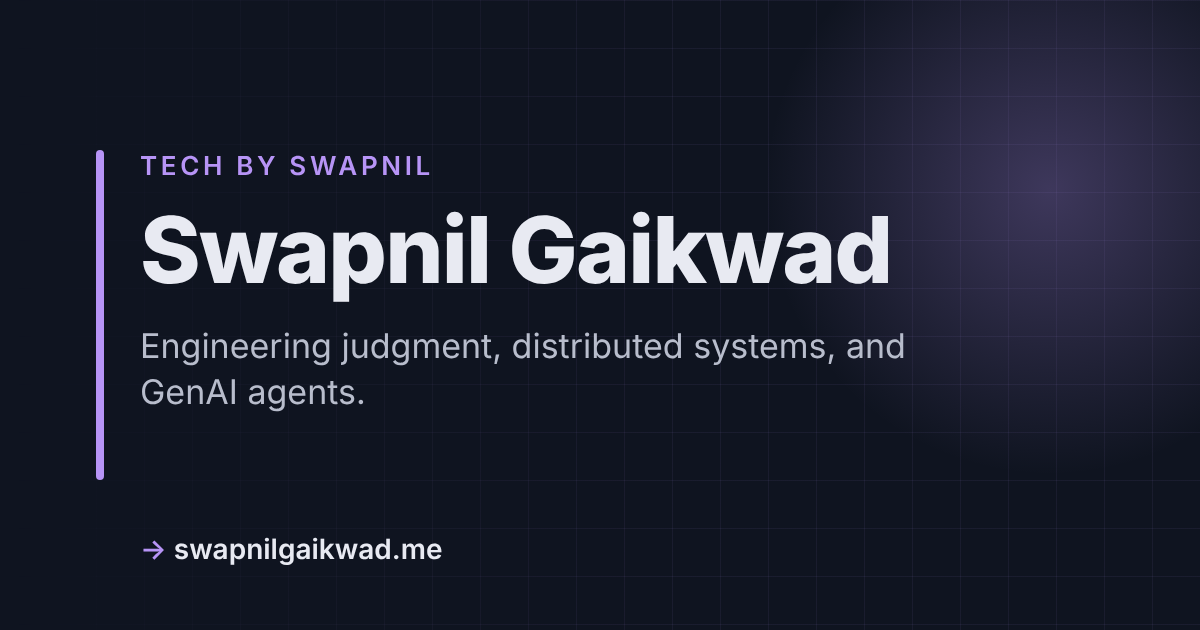
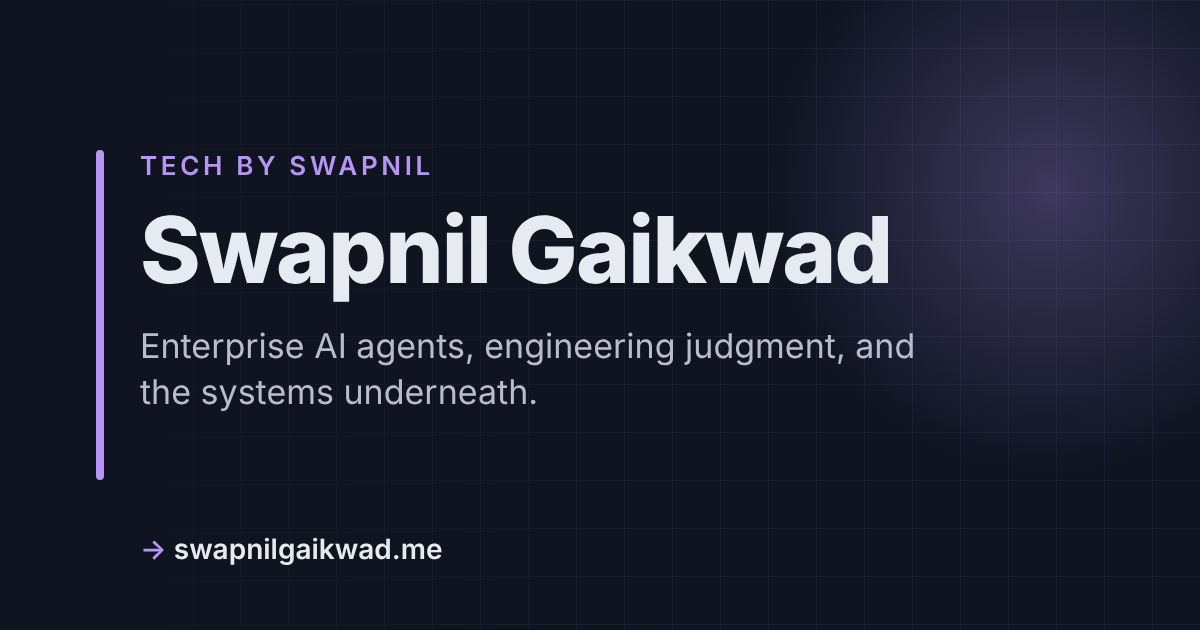
Reposition site and About page around enterprise AI
- Sidebar tagline: "Enterprise AI on systems built to scale"
- Home heading and intro lead with building GenAI agents for the enterprise
- About: rewritten bio (lead line, current GenAI agent work, NASA/research
  thread, approach); new "What I work on" cards under the opening line;
  GenAI initiative added to Amazon experience; "AI Applications" skills
  group; publications listed newest first
- Meta descriptions, site description, Person knowsAbout and the default
  share image updated to match

Claude-Session: https://claude.ai/code/session_01EQevW9R4LrNDpq11FkH3uR

Changed region(s): [[0.1233, 0.5127, 0.7708, 0.6635]]

diff --git a/src/pages/about.js b/src/pages/about.js
@@ -13,11 +13,12 @@ const experiences = [
     period: "2020 — Present",
     description: [
       "Technical leader driving architectural vision for Amazon Currency Converter for Sellers (ACCS), leading cross-functional initiatives that rearchitected and expanded the product across international markets",
+      "Leading a GenAI agent-based initiative for enterprise accounting onboarding, using narrow, bounded agents and designed-in human checkpoints to compress a process of up to six months toward three weeks",
       "Architected and delivered a generic monetization framework supporting end-to-end fee lifecycle, establishing technical standards that reduced launch times by 83% and KTLO costs by 64%",
       "Led system architecture redesign for ACCS payment product enabling rapid international expansion, reducing time to market by 80% through scalable, reusable design patterns",
       "Provide technical leadership and mentorship across 3 teams with 18 engineers and 3 managers, fostering engineering excellence and developing 7 engineers to next-level roles"
     ],
-    technologies: ["Java", "AWS", "Spring Boot", "DynamoDB", "PostgreSQL"]
+    technologies: ["Generative AI", "Java", "AWS", "Spring Boot", "DynamoDB", "PostgreSQL"]
   },
   {
     company: "NASA Ames Research Center",
@@ -56,6 +57,14 @@ const experiences = [
 
 const publications = [
   {
+    title: "Agentic AI for Autonomous Decision Systems",
+    venue: "CISCom 2026 (Second International Conference on Computational Intelligence and Soft Computing), Track 15, Paper ID 37",
+    date: null,
+    status: "In Press",
+    url: null,
+    description: "Co-authored with Rajkumar Kuppuswami (primary), Swapnil Gaikwad, and others. Camera-ready version in progress."
+  },
+  {
     title: "Data Structure for Efficient Line of Sight Queries",
     venue: "CIKM 2018",
     date: "October 2018",
@@ -68,18 +77,14 @@ const publications = [
     date: "May 2017",
     url: "/papers/2017-optimal-constrained-wireless-emergency-network-antenna-placement.pdf",
     description: "Communication is paramount during emergencies. This research proposes a framework for identifying optimal placement of wireless network antennas within a city, given multiple criteria constraints."
-  },
-  {
-    title: "Agentic AI for Autonomous Decision Systems",
-    venue: "CISCom 2026 (Second International Conference on Computational Intelligence and Soft Computing), Track 15, Paper ID 37",
-    date: null,
-    status: "In Press",
-    url: null,
-    description: "Co-authored with Rajkumar Kuppuswami (primary), Swapnil Gaikwad, and others. Camera-ready version in progress."
   }
 ]
 
 const skills = [
+  {
+    category: "AI Applications",
+    skills: ["GenAI Agents", "Agentic Workflows", "Human-in-the-Loop Design", "Agent Evaluation", "Prompt & Context Engineering"]
+  },
   {
     category: "Architecture & Leadership",
     skills: ["Distributed Systems", "System Design", "Technical Strategy", "Cross-Team Leadership", "Mentorship"]
@@ -98,6 +103,21 @@ const skills = [
   }
 ]
 
+const focusAreas = [
+  {
+    title: "Enterprise AI agents",
+    description: "GenAI agents for judgment-heavy business workflows, with human checkpoints designed in rather than bolted on."
+  },
+  {
+    title: "Payments & monetization platforms",
+    description: "Large-scale distributed systems for payments and fees, built to launch fast and stay reliable."
+  },
+  {
+    title: "Research & community",
+    description: "Published work on optimization and agentic AI, plus conference talks, committees, and hackathon judging."
+  }
+]
+
 const AboutPage = ({ data }) => {
   const writingPosts = data.allDevToArticle.nodes
   return (
@@ -106,29 +126,46 @@ const AboutPage = ({ data }) => {
       {/* Bio Section */}
       <section className={styles.section} aria-labelledby="bio-heading">
         <h2 id="bio-heading" className={styles.srOnly}>About</h2>
+        <p className={styles.lead}>
+          I'm Swapnil Gaikwad, a Senior Software Development Engineer at Amazon. I build AI
+          applications for the enterprise: GenAI agents that take on judgment-heavy business
+          workflows, running on the kind of large-scale payment and monetization systems I've
+          spent years designing and leading.
+        </p>
+
+        <h3 id="focus-heading" className={styles.focusHeading}>What I work on</h3>
+        <ul className={styles.focusGrid} aria-labelledby="focus-heading">
+          {focusAreas.map(area => (
+            <li key={area.title} className={styles.focusCard}>
+              <h4 className={styles.focusTitle}>{area.title}</h4>
+              <p className={styles.focusDescription}>{area.description}</p>
+            </li>
+          ))}
+        </ul>
+
         <div className={styles.bio}>
           <p>
-            Hi, I'm Swapnil Gaikwad, a Senior Software Development Engineer at Amazon where I architect 
-            and lead the development of large-scale distributed systems that power critical payment and 
-            monetization infrastructure. My work spans technical leadership across multiple teams, driving 
-            architectural decisions that impact millions of sellers globally while ensuring systems remain 
-            scalable, resilient, and performant.
+            I'm the technical lead for Amazon Currency Converter for Sellers (ACCS), a global payments
+            and monetization platform. My current focus is a GenAI agent-based initiative for enterprise
+            accounting onboarding, a process that can take up to six months. Instead of one large agent,
+            it uses narrow, bounded agents and deliberately placed human checkpoints, aiming to bring
+            that time down toward three weeks. The idea behind it applies well beyond accounting: map
+            where the judgment in a workflow actually lives, automate around it, and keep people where
+            a wrong call is expensive to undo.
           </p>
           <p>
-            I hold a Master's degree in Computer Science from San Jose State University, where I 
-            specialized in optimization algorithms and wireless network systems. My academic research 
-            led to publications in IEEE and CIKM conferences, focusing on large-scale optimization 
-            problems for emergency communication networks. This foundation in both theoretical computer 
-            science and practical systems engineering shapes my approach to solving complex technical 
-            challenges—from designing fault-tolerant architectures to optimizing system performance at scale.
+            The thread goes back further. At NASA Ames Research Center I built software for the
+            Tailored Arrival Manager, an autonomous, trajectory-based air traffic system developed with
+            Boeing and the FAA. My Master's research in Computer Science at San Jose State University,
+            on large-scale optimization for emergency wireless networks, led to papers at IEEE and ACM
+            CIKM, and I recently co-authored <em>Agentic AI for Autonomous Decision Systems</em> (CISCom 2026).
           </p>
           <p>
-            Throughout my career, I've focused on translating business needs into pragmatic technical 
-            solutions while mentoring engineers and fostering a culture of technical excellence. I'm 
-            passionate about building systems that not only solve today's problems but are architected 
-            to evolve with future needs. When I'm not designing distributed systems or reviewing 
-            architectural proposals, you'll find me sharing knowledge through writing, exploring emerging 
-            technologies, or enjoying the outdoors.
+            I believe the only way to build fast is to build right, so I care as much about the
+            architecture, evaluation, and review practices around an AI system as about the model inside
+            it. Beyond my day job, I write about engineering judgment and GenAI agents, speak and serve on
+            committees at technical conferences, judge hackathons, and mentor engineers. Away from the
+            keyboard, you'll usually find me outdoors.
           </p>
         </div>
       </section>
@@ -274,7 +311,7 @@ export const query = graphql`
 export const Head = () => (
   <Seo
     title="About Me"
-    description="Swapnil Gaikwad is a Senior Software Development Engineer at Amazon, leading large-scale distributed systems for payments and monetization."
+    description="Swapnil Gaikwad is a Senior Software Development Engineer at Amazon, building enterprise GenAI agents on large-scale payment and monetization systems."
     canonical="/about/"
   >
     <JsonLd data={personSchema()} />

diff --git a/src/pages/index.js b/src/pages/index.js
@@ -8,11 +8,12 @@ import * as styles from './index.module.css'
 
 const IndexPage = ({ data }) => {
   return (
-    <Layout pageTitle="Notes on distributed systems, architecture, and scale">
+    <Layout pageTitle="Notes on building AI for the enterprise">
       <p className={styles.intro}>
-        I'm Swapnil Gaikwad, a Senior Software Development Engineer at Amazon.
-        I write about engineering judgment, code reviews, distributed systems,
-        and GenAI agents. <Link to="/about">More about me →</Link>
+        I'm Swapnil Gaikwad, a Senior Software Development Engineer at Amazon,
+        building GenAI agents for enterprise workflows. I write about AI agents,
+        engineering judgment, code reviews, and the distributed systems
+        underneath it all. <Link to="/about">More about me →</Link>
       </p>
 
       <UpcomingActivities />
@@ -64,7 +65,7 @@ export const query = graphql`
 export const Head = () => (
   <Seo
     title="Home"
-    description="Tech by Swapnil: notes on engineering judgment, code reviews, distributed systems, and GenAI agents, written by Swapnil Gaikwad."
+    description="Tech by Swapnil: notes on building enterprise AI agents, engineering judgment, code reviews, and distributed systems, by Swapnil Gaikwad."
     canonical="/"
   >
     <JsonLd data={personSchema()} />

diff --git a/src/pages/about.module.css b/src/pages/about.module.css
@@ -36,10 +36,59 @@
   margin-bottom: 1.25rem;
 }
 
-.bio p:first-child {
+/* Opening line: larger, so the page leads with one clear sentence */
+.lead {
   font-size: 1.2rem;
   font-weight: 500;
+  line-height: 1.65;
   color: var(--text);
+  margin: 0 0 1.75rem;
+}
+
+.focusHeading {
+  margin: 0 0 0.85rem;
+  font-size: 0.8rem;
+  font-weight: 600;
+  letter-spacing: 0.08em;
+  text-transform: uppercase;
+  color: var(--accent);
+}
+
+/* Focus areas: three short cards that summarise the bio at a glance */
+.focusGrid {
+  list-style: none;
+  margin: 0;
+  padding: 0;
+  display: grid;
+  /* Three across when there is room, stacking on narrow screens */
+  grid-template-columns: repeat(auto-fit, minmax(11rem, 1fr));
+  gap: 1rem;
+  margin-bottom: 2.25rem;
+}
+
+.focusCard {
+  margin: 0;
+  padding: 1.25rem 1.25rem 1.35rem;
+  background: var(--bg-elevated);
+  border: 1px solid var(--border);
+  border-top: 3px solid var(--accent);
+  border-radius: 10px;
+  box-shadow: var(--shadow);
+}
+
+.focusTitle {
+  margin: 0 0 0.5rem;
+  font-size: 1.02rem;
+  font-weight: 600;
+  line-height: 1.3;
+  color: var(--text);
+}
+
+.focusDescription {
+  margin: 0;
+  font-size: 0.95rem;
+  line-height: 1.55;
+  color: var(--text-muted);
 }
 
 /* Experience section - timeline style */

diff --git a/src/components/seo.js b/src/components/seo.js
@@ -12,7 +12,7 @@ import { graphql, useStaticQuery } from 'gatsby'
  * (1200×630), so every shared link gets a preview card.
  */
 const DEFAULT_IMAGE = '/og-default.png'
-const DEFAULT_IMAGE_ALT = 'Swapnil Gaikwad: engineering judgment, distributed systems, and GenAI agents'
+const DEFAULT_IMAGE_ALT = 'Swapnil Gaikwad: enterprise AI agents, engineering judgment, and the systems underneath'
 
 const Seo = ({ title, description, canonical, image, imageAlt, children }) => {
   const data = useStaticQuery(graphql`

diff --git a/src/components/structured-data.js b/src/components/structured-data.js
@@ -17,6 +17,7 @@ export const PERSON = {
   jobTitle: 'Senior Software Development Engineer',
   worksFor: { '@type': 'Organization', name: 'Amazon' },
   alumniOf: { '@type': 'CollegeOrUniversity', name: 'San Jose State University' },
+  knowsAbout: ['Enterprise AI', 'GenAI agents', 'Agentic AI', 'Distributed systems', 'Payments platforms'],
   sameAs: [
     'https://www.linkedin.com/in/gaikwadswapnil/',
     'https://github.com/swapnilmg',

diff --git a/src/components/layout.js b/src/components/layout.js
@@ -23,7 +23,7 @@ const Layout = ({ pageTitle, children }) => {
                     </Link>
                     <ThemeToggle />
                 </div>
-                <p className={styles.tagline}>Distributed systems & scale</p>
+                <p className={styles.tagline}>Enterprise AI on systems built to scale</p>
                 <nav>
                     <ul className={styles.navLinks}>
                         <li>

diff --git a/gatsby-config.js b/gatsby-config.js
@@ -11,7 +11,7 @@ module.exports = {
   siteMetadata: {
     title: "Swapnil Gaikwad",
     description:
-      "Notes on engineering judgment, code reviews, distributed systems, and GenAI agents, written by Swapnil Gaikwad.",
+      "Notes on building enterprise AI agents, engineering judgment, code reviews, and distributed systems, written by Swapnil Gaikwad.",
     siteUrl: "https://swapnilgaikwad.me",
   },
   plugins: [

diff --git a/src/pages/blog/index.js b/src/pages/blog/index.js
@@ -59,7 +59,7 @@ export const query = graphql`
 export const Head = () => (
   <Seo
     title="My Blog Posts"
-    description="Posts on engineering judgment, code reviews, distributed systems, and GenAI agents."
+    description="Posts on enterprise AI agents, engineering judgment, code reviews, and distributed systems."
     canonical="/blog/"
   />
 )

diff --git a/CLAUDE.md b/CLAUDE.md
@@ -29,7 +29,7 @@ Gatsby 5 site (React 18) with content and code cleanly separated:
 - **Crawling** — `gatsby-plugin-sitemap` writes `/sitemap-index.xml` (404 excluded), and `static/robots.txt` points crawlers to it. `src/pages/404.js` is the custom not-found page and carries `noindex`.
 - **Images in `static/activities/`** are WebP (certificates keep their PDF originals). `static/blog-figures/` stays PNG on purpose: dev.to cross-posts link those exact URLs. Blog cover images go through `gatsby-plugin-image`, which already serves WebP.
 - **Theming** — `src/styles/global.css` defines CSS custom properties (`--bg`, `--text`, `--accent`, `--shadow`, etc.) on `:root` for light mode by default, with a dark override both under `@media (prefers-color-scheme: dark)` and `:root[data-theme="dark"]`. `gatsby-ssr.js` injects a synchronous inline script (`onRenderBody`/`setPreBodyComponents`) that sets `data-theme` on `<html>` before first paint, so there's no flash of the wrong theme. `src/components/theme-toggle.js` is the sun/moon button in the sidebar that flips `data-theme` and persists the choice to `localStorage`; it renders a placeholder until mount to avoid a hydration mismatch, since the stored theme isn't knowable during SSR. `gatsby-browser.js` just imports `global.css`. Every page-level CSS module should reference these shared tokens rather than hardcoding colors, so a theme change stays consistent site-wide.
-- **`src/pages/about.js`** — not CMS-driven; experience/publications/skills content lives as plain JS array constants at the top of the file and is mapped into JSX (no wrapping page-scoped CSS tokens — `about.module.css` consumes the shared global tokens directly). To update About page content, edit those arrays directly rather than looking for a data file. Publication PDFs are self-hosted under `static/papers/`.
+- **`src/pages/about.js`** — not CMS-driven; focus areas (the three cards under the opening line), experience, publications and skills live as plain JS array constants at the top of the file and is mapped into JSX (no wrapping page-scoped CSS tokens — `about.module.css` consumes the shared global tokens directly). To update About page content, edit those arrays directly rather than looking for a data file. Publication PDFs are self-hosted under `static/papers/`.
 - **`src/pages/activities.js`** + **`src/data/activities.js`** — the Activities page (conference service, hackathon judging). `activities.js` in `src/data/` is a single array of activity objects (type `conference` | `hackathon`, one or more `roles`, each role optionally carrying `photos`/`certificates`); the page component sorts them newest-first by `date.end` (falling back to `date.start`) and renders a lightbox (`MediaDialog`) for enlarging photos/certificate images, with focus trapping and Escape-to-close. Media files live in `static/activities/<activity-id>/`. See the comment at the top of `src/data/activities.js` for the shape to copy when adding an entry.
 - **`src/components/diagrams/`** — the blog's diagram design system (`<Flow>`, `<Compare>`, `<Matrix>`, `<Bars>`, and `<Diagram>` for draw.io exports), provided to every post via `MDXProvider` alongside `<Callout>`. The concept components are built from HTML and the `--diagram-*` tokens in `global.css`, not images. Any diagram in a post must follow the "Diagram design system" section below.
 - **`design/drawio/`** — the draw.io style library (`blog-diagram-library.xml`) and template (`blog-diagram-template.drawio`) for free-form diagrams, in the same palette as the components.
